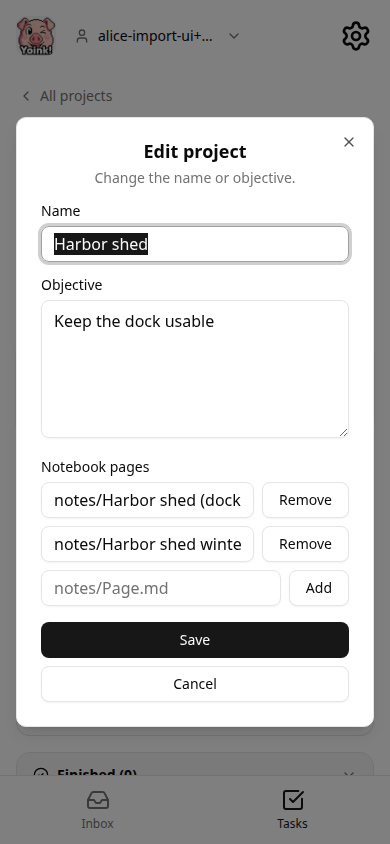
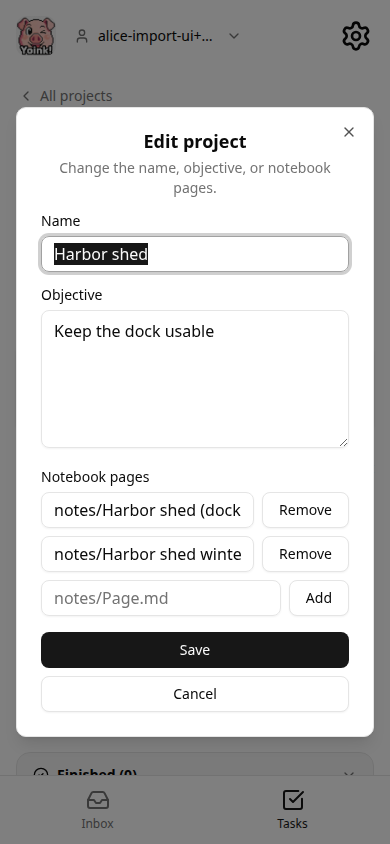
Drop duplicate Permit preview shots and refresh #139 walkthrough
The three-card batch already fits, so Permit preview matched Harbor. Keep Harbor-focused preview plus footer. Retake history (phone padding), someday empty-state links, and the Edit subtitle.

Changed region(s): [[0.0308, 0.5237, 0.9538, 0.8934], [0.0308, 0.1232, 0.9538, 0.4005]]

diff --git a/packages/acceptance-testing/src/drivers/playwright/actor.ts b/packages/acceptance-testing/src/drivers/playwright/actor.ts
@@ -1714,10 +1714,8 @@ export const createPlaywrightActor = (
 
     async scrollImportPreviewProject(name: string): Promise<void> {
       const card = page.locator('[data-import-preview-project]').filter({ hasText: name });
+      await card.scrollIntoViewIfNeeded();
       await expect(card).toBeVisible();
-      await card.evaluate((el) => {
-        el.scrollIntoView({ block: 'start', inline: 'nearest' });
-      });
     },
 
     async scrollImportActionsIntoView(): Promise<void> {
@@ -1775,6 +1773,8 @@ export const createPlaywrightActor = (
       heldImportDiscardRelease = undefined;
       release?.();
       await page.waitForURL(/\/projects$/);
+      await expect(page.getByRole('heading', { name: 'Projects' })).toBeVisible();
+      await expect(page.getByText('0 projects')).toBeVisible();
       await page.unroute('**/api/projects/imports/*/discard');
     },
 

diff --git a/packages/acceptance-tests/src/use-cases/project-import.test.ts b/packages/acceptance-tests/src/use-cases/project-import.test.ts
@@ -451,11 +451,6 @@ usingDrivers(['playwright'] as const, (ctx) => {
         });
         await alice.shouldSeeImportPreviewProject('Permit desk');
         await alice.shouldSeeImportWarning('Assignee is not a member');
-        await alice.scrollImportPreviewProject('Permit desk');
-        await alice.saveWalkthroughScreenshot({
-          story: '139-project-import',
-          step: 'preview_permit',
-        });
         await alice.shouldSeeImportPreviewProject('Winter boat cover');
         await alice.scrollImportActionsIntoView();
         await alice.saveWalkthroughScreenshot({
